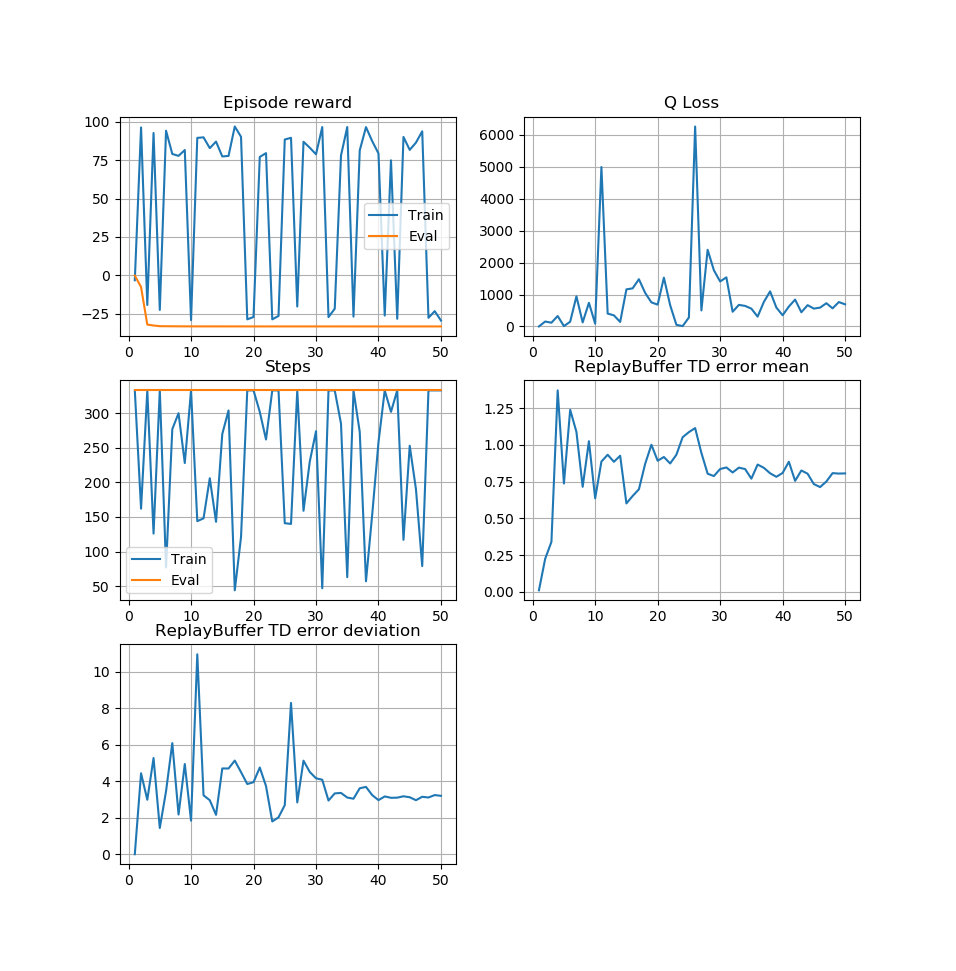
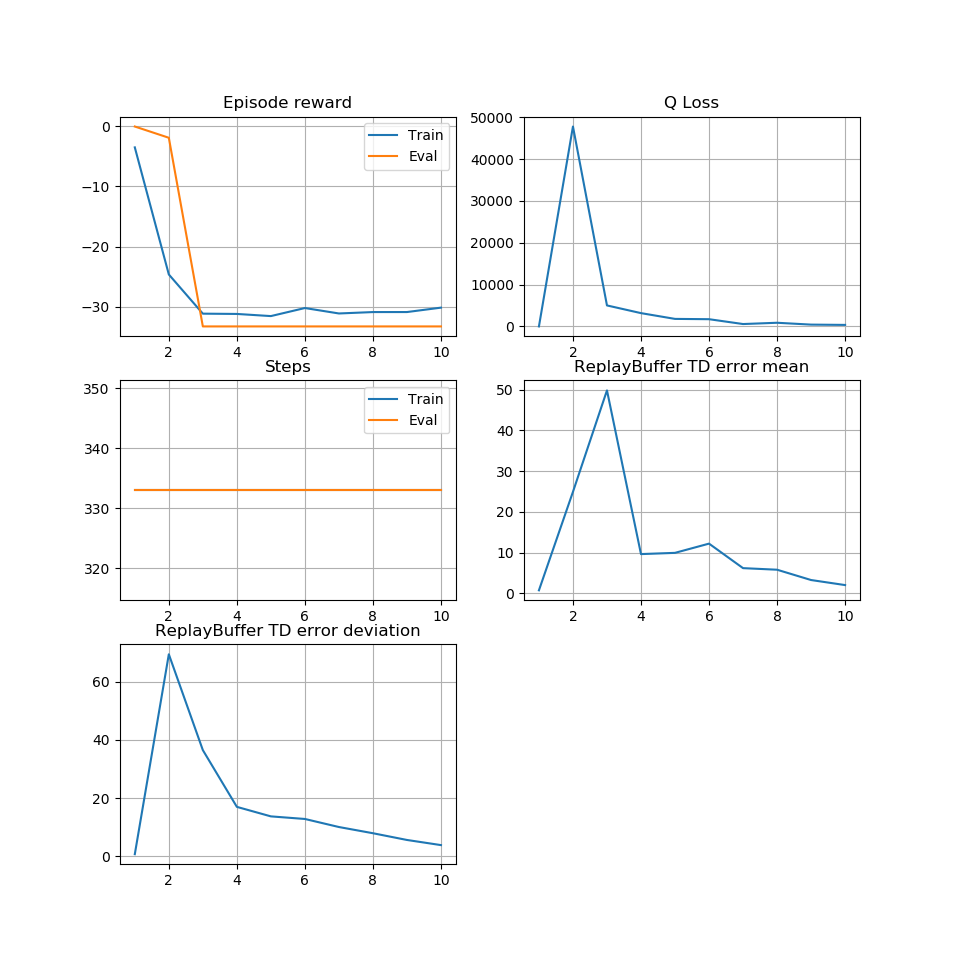
Added batch normalization to Q-Network

diff --git a/agents/q_network.py b/agents/q_network.py
@@ -3,28 +3,31 @@ import logging
 
 class QNetwork():
 
-    def __init__(self, sess, state_size, action_size, stat_collector):
+    def __init__(self, sess, state_size, action_size, stat_collector, hidden_units=64):
         self.sess = sess
         self.stat_collector = stat_collector
 
         # create network
         self.state = tf.placeholder(tf.float32, shape=(None, state_size), name='state')
         self.action = tf.placeholder(tf.float32, shape=(None, action_size), name='action')
+        self.is_training = tf.placeholder(tf.bool, name='is_training')
 
         # state network
-        hidden_units = 64
-        x = tf.layers.dense(self.state, hidden_units)
+        x = self.state
+        x = tf.layers.dense(x, hidden_units)
         x = tf.nn.relu(x)
 
-        x = tf.layers.dense(x, hidden_units)
+        x = tf.layers.batch_normalization(x, training=self.is_training)
+        x = tf.layers.dense(x, hidden_units, use_bias=False)
         state_out = tf.nn.relu(x)
-        logging.debug('state_out', state_out)
 
         # action network
-        x = tf.layers.dense(self.action, hidden_units)
+        x = self.action
+        x = tf.layers.dense(x, hidden_units)
         x = tf.nn.relu(x)
 
-        x = tf.layers.dense(x, hidden_units)
+        x = tf.layers.batch_normalization(x, training=self.is_training)
+        x = tf.layers.dense(x, hidden_units, use_bias=False)
         action_out = tf.nn.relu(x)
         logging.debug('action_out', action_out)
 
@@ -32,20 +35,26 @@ class QNetwork():
         x = tf.concat([state_out, action_out], 1)
         logging.debug('state_out + action_out', x)
 
-        x = tf.layers.dense(x, hidden_units)
+        x = tf.layers.batch_normalization(x, training=self.is_training)
+        x = tf.layers.dense(x, hidden_units, use_bias=False)
+        action_out = tf.nn.relu(x)
+
         self.q = tf.layers.dense(x, 1)
 
         self.q_target = tf.placeholder(tf.float32, shape=(None, 1), name='q_target')
         self.td_err = tf.squeeze(self.q_target - self.q)
         self.q_loss = tf.losses.mean_squared_error(self.q_target, self.q)
 
-        self.train_op = tf.train.GradientDescentOptimizer(0.001).minimize(self.q_loss)
+        update_ops = tf.get_collection(tf.GraphKeys.UPDATE_OPS)
+        with tf.control_dependencies(update_ops):
+            self.train_op = tf.train.AdamOptimizer().minimize(self.q_loss)
 
     def learn(self, states, actions, q_targets):
         _, q_loss, td_errs = self.sess.run([self.train_op, self.q_loss, self.td_err], {
             self.state: states,
             self.action: actions,
             self.q_target: q_targets,
+            self.is_training: True,
         })
         self.stat_collector.scalar('q_loss', q_loss)
         return td_errs
@@ -54,4 +63,5 @@ class QNetwork():
         return self.sess.run(self.q, {
             self.state: states,
             self.action: actions,
+            self.is_training: False,
         })

diff --git a/agents/agent.py b/agents/agent.py
@@ -13,15 +13,15 @@ class Agent():
         self.task = task
         self.stats = stats
 
-        self.q_network = QNetwork(sess, task.state_size, task.action_size, stats)
-        self.actor = Policy(task, sess)
+        self.q_network = QNetwork(sess, task.state_size, task.action_size, stats, hidden_units=16)
+        self.actor = Policy(task, sess, hidden_units=16)
 
         self.gamma = 0.99 # reward discount rate
 
         # Exploration noise process
         exploration_mu = 0
         exploration_theta = 0.15
-        exploration_sigma = 0.2
+        exploration_sigma = 0.05
         self.noise = OUNoise(task.action_size, exploration_mu, exploration_theta, exploration_sigma)
 
         # Replay memory
@@ -51,6 +51,8 @@ class Agent():
     def act(self, state, explore=False):
         """Returns actions for given state(s) as per current policy."""
         action = self.actor.act([state])[0]
+        assert not np.isnan(action)
+
         if explore:
             action = action + self.noise.sample()
             action = np.maximum(action, self.task.action_low)
@@ -67,11 +69,11 @@ class Agent():
         # Convert experience tuples to separate arrays for each element (states, actions, rewards, etc.)
         experiences, experience_indexes = self.memory.sample(self.batch_size)
         action_size = self.task.action_size
-        states = np.vstack([e.state for e in experiences if e is not None])
-        actions = np.array([e.action for e in experiences if e is not None]).astype(np.float32).reshape(-1, action_size)
-        rewards = np.array([e.reward for e in experiences if e is not None]).astype(np.float32).reshape(-1, 1)
-        dones = np.array([e.done for e in experiences if e is not None]).astype(np.uint8).reshape(-1, 1)
-        next_states = np.vstack([e.next_state for e in experiences if e is not None])
+        states = np.vstack([e.state for e in experiences])
+        actions = np.array([e.action for e in experiences]).astype(np.float32).reshape(-1, action_size)
+        rewards = np.array([e.reward for e in experiences]).astype(np.float32).reshape(-1, 1)
+        dones = np.array([e.done for e in experiences]).astype(np.uint8).reshape(-1, 1)
+        next_states = np.vstack([e.next_state for e in experiences])
 
         # Get predicted next-state actions and Q values
         actions_next = self.actor.act(next_states)

diff --git a/test.py b/test.py
@@ -23,6 +23,20 @@ with tf.Session() as sess:
     for i_episode in range(1, num_episodes+1):
         stat.tick()
 
+        # Evaluate policy
+        total_score_eval = 0
+        state = agent.reset_episode() # start a new episode
+        done = False
+        step = 0
+
+        while not done:
+            step += 1
+            action = agent.act(state)
+            state, reward, done = task.step(action)
+            total_score_eval += reward
+        stat.scalar('episode_steps_eval', step)
+        stat.scalar('episode_reward_eval', total_score_eval)
+
         # Train policy and Q-Network
         total_score_train = 0
         state = agent.reset_episode() # start a new episode
@@ -43,21 +57,7 @@ with tf.Session() as sess:
         stat.scalar('episode_steps_train', step)
         stat.scalar('episode_reward_train', total_score_train)
 
-        # Evaluate policy
-        total_score_eval = 0
-        state = agent.reset_episode() # start a new episode
-        done = False
-        step = 0
-
-        while not done:
-            step += 1
-            action = agent.act(state)
-            state, reward, done = task.step(action)
-            total_score_eval += reward
-        stat.scalar('episode_steps_eval', step)
-        stat.scalar('episode_reward_eval', total_score_eval)
-
-        print("\rEpisode = {:4d}, score_train = {:7.3f}, score_test = {:7.3f}".format(i_episode, total_score_train, total_score_eval), end="")
+        print('Episode = {:4d}, score_train = {:7.3f}, score_test = {:7.3f}'.format(i_episode, total_score_train, total_score_eval))
         sys.stdout.flush()
 
         plt.clf()

diff --git a/agents/policy_gradient.py b/agents/policy_gradient.py
@@ -4,7 +4,7 @@ import numpy as np
 
 class Policy():
 
-    def __init__(self, task, sess):
+    def __init__(self, task, sess, hidden_units=64):
         self.task = task
         self.sess = sess
 
@@ -18,7 +18,7 @@ class Policy():
         self.tau = 1.0 # for soft update of target parameters
 
         # create policy network
-        self.state, self.action_output = self._create_policy_network()
+        self.state, self.action_output = self._create_policy_network(hidden_units)
         self.reset_delta_theta_op, self.update_delta_theta_ops, self.update_theta_ops = self._create_update_network()
 
     def act(self, states):
@@ -38,7 +38,7 @@ class Policy():
         self.sess.run(self.update_theta_ops)
         return
 
-    def _create_policy_network(self, hidden_units=64):
+    def _create_policy_network(self, hidden_units):
         state = tf.placeholder(tf.float32, shape=(None, self.state_size), name='state')
         x = tf.layers.dense(state, hidden_units)
         x = tf.nn.relu(x)

diff --git a/agents/replay_buffer.py b/agents/replay_buffer.py
@@ -36,6 +36,7 @@ class ReplayBuffer:
         return [self._memory[i] for i in idx], idx
 
     def update_td_err(self, experience_indexes, td_errs):
+        assert not np.any(np.isnan(td_errs))
         self._td_err[experience_indexes] = td_errs
 
     def __len__(self):
